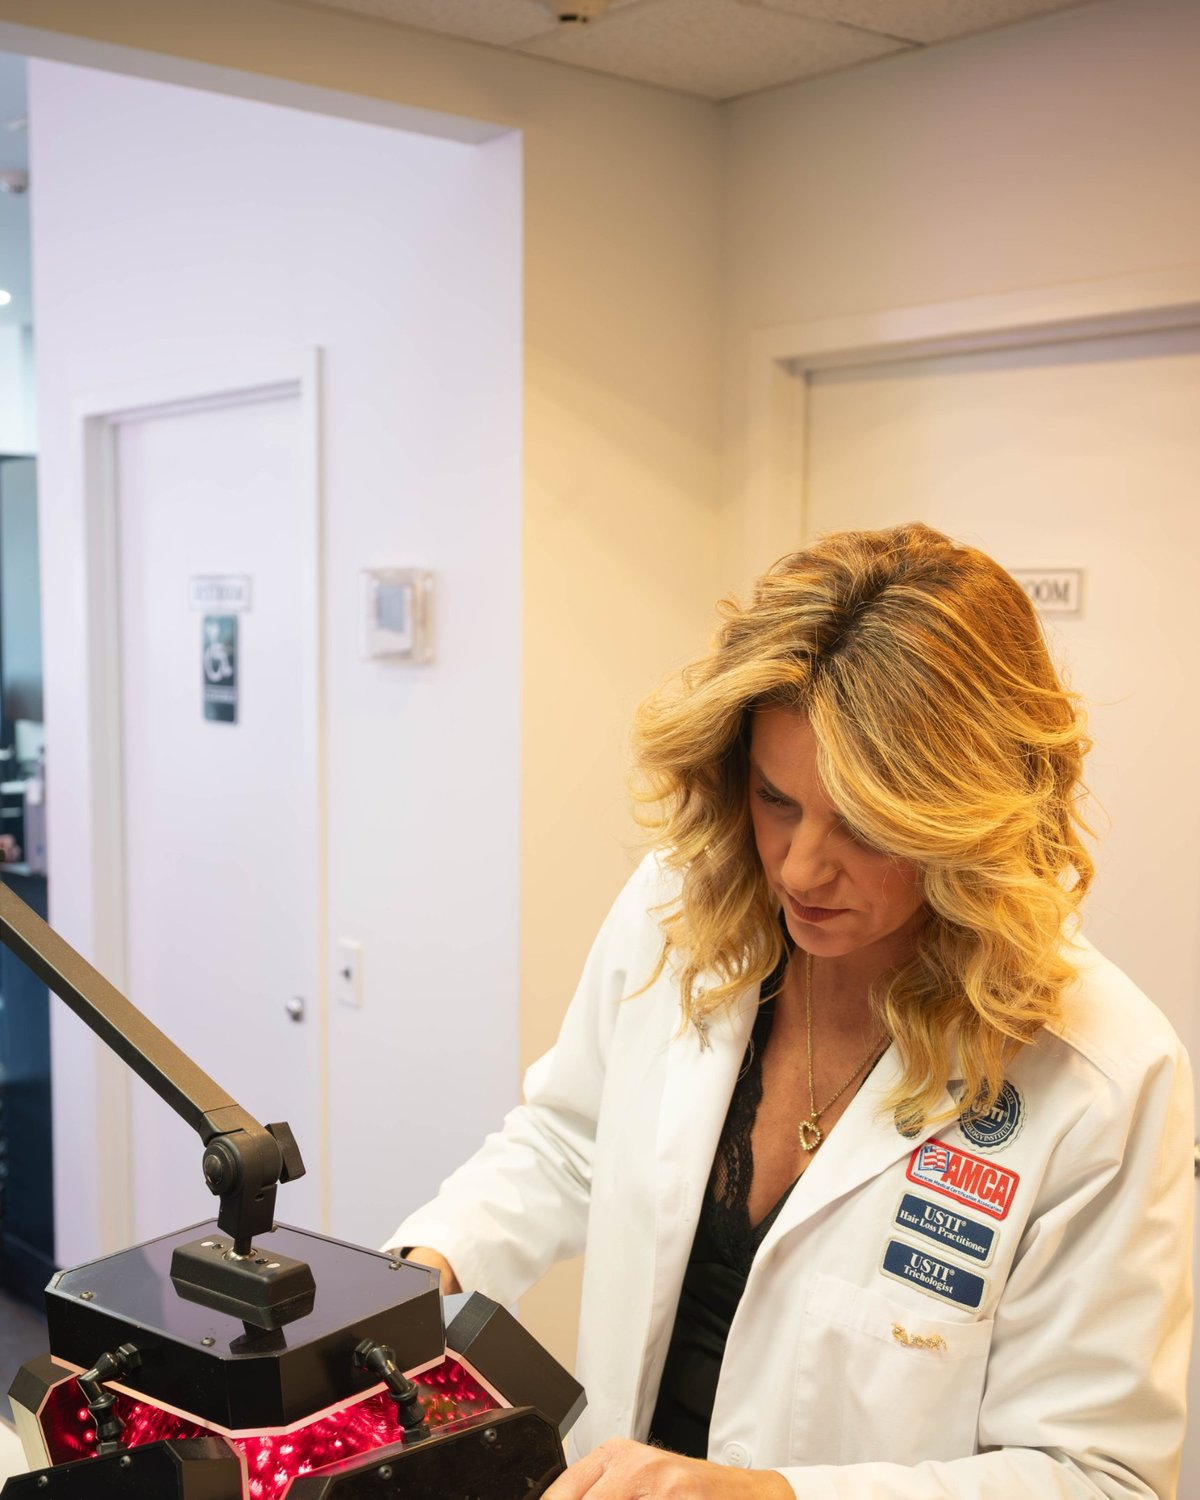
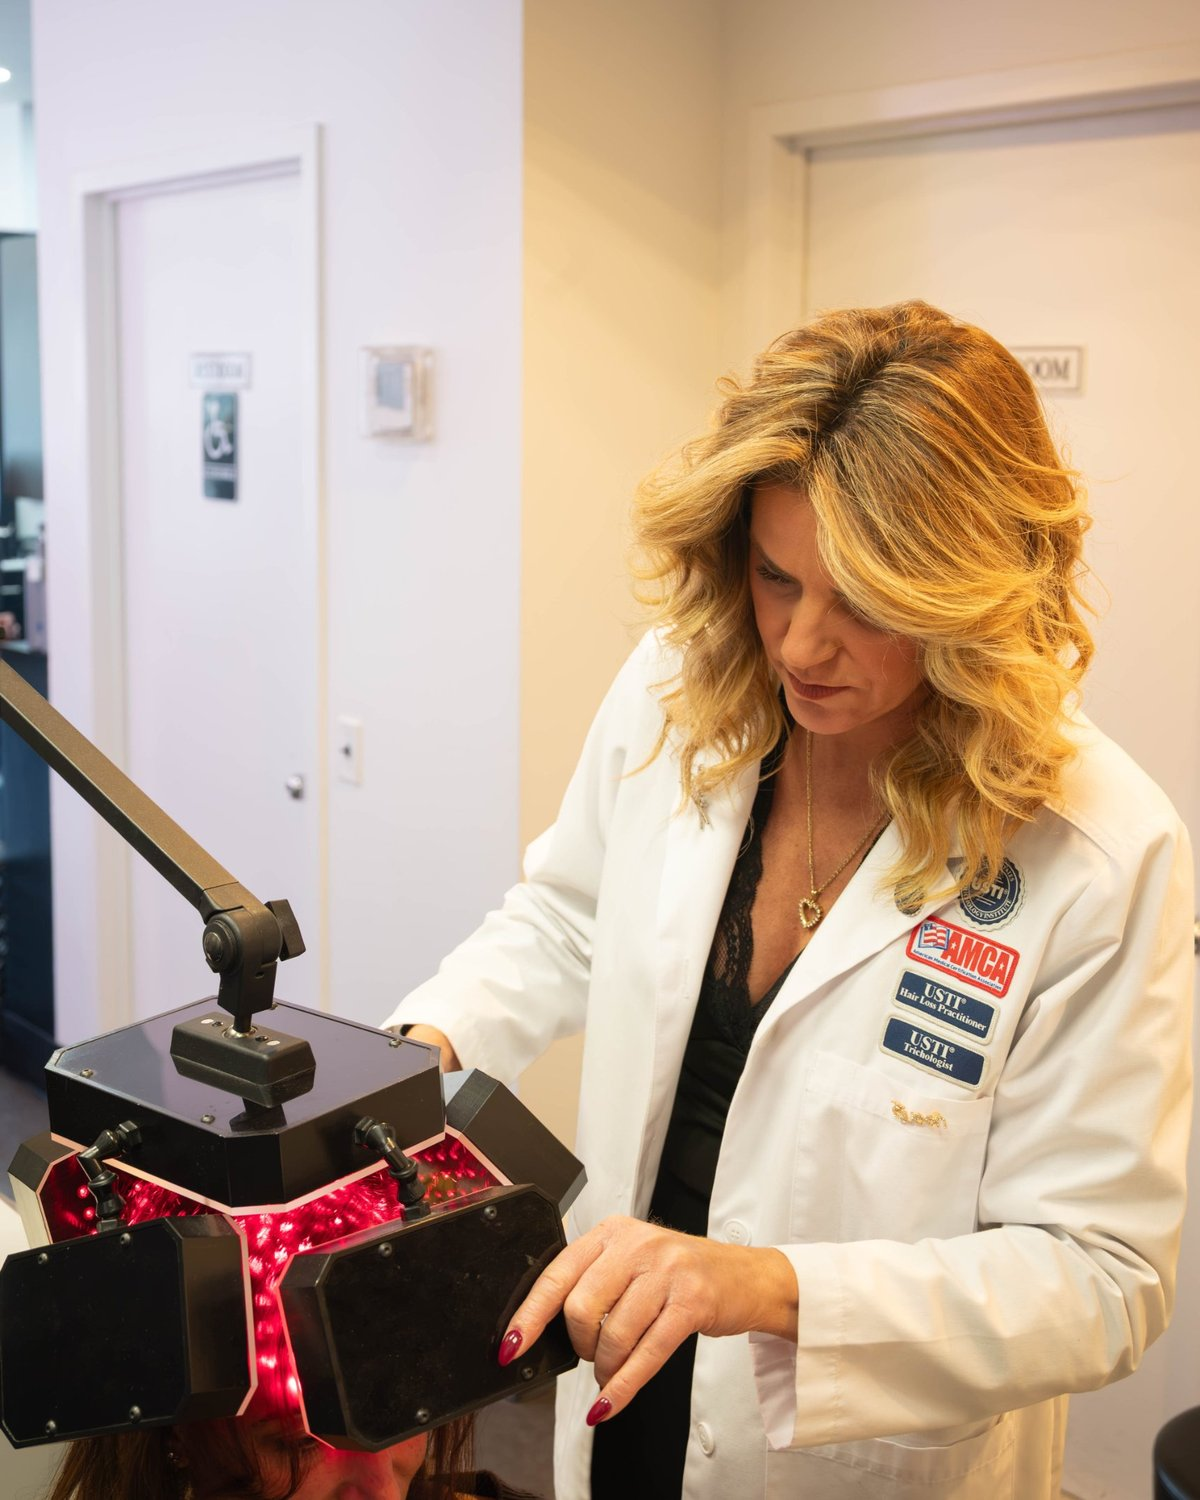
Add USTI and AMCA credentials; reframe laser session photo
Claude-Session: https://claude.ai/code/session_01HH4vdfN4NekQEfnfkDb5ji

diff --git a/index.html b/index.html
@@ -69,6 +69,9 @@
 </div>
 <div style="display: flex; flex-direction: column; border-top: 1px solid #CFD9DF">
 <div style="display: flex; justify-content: space-between; gap: 16px; padding: 16px 0; border-bottom: 1px solid #CFD9DF"><span style="font-family: 'Montserrat', sans-serif; font-size: 13px; font-weight: 600; letter-spacing: 0.1em; color: #4A5A62">CREDENTIAL</span><span style="font-size: 15px; text-align: right">Certified Clinical Trichologist</span></div>
+<div style="display: flex; justify-content: space-between; gap: 16px; padding: 16px 0; border-bottom: 1px solid #CFD9DF"><span style="font-family: 'Montserrat', sans-serif; font-size: 13px; font-weight: 600; letter-spacing: 0.1em; color: #4A5A62">CERTIFIED</span><span style="font-size: 15px; text-align: right">USTI Trichologist</span></div>
+<div style="display: flex; justify-content: space-between; gap: 16px; padding: 16px 0; border-bottom: 1px solid #CFD9DF"><span style="font-family: 'Montserrat', sans-serif; font-size: 13px; font-weight: 600; letter-spacing: 0.1em; color: #4A5A62">CERTIFIED</span><span style="font-size: 15px; text-align: right">USTI Hair Loss Practitioner</span></div>
+<div style="display: flex; justify-content: space-between; gap: 16px; padding: 16px 0; border-bottom: 1px solid #CFD9DF"><span style="font-family: 'Montserrat', sans-serif; font-size: 13px; font-weight: 600; letter-spacing: 0.1em; color: #4A5A62">CERTIFIED</span><span style="font-size: 15px; text-align: right">AMCA (American Medical Certification Association)</span></div>
 <div style="display: flex; justify-content: space-between; gap: 16px; padding: 16px 0; border-bottom: 1px solid #CFD9DF"><span style="font-family: 'Montserrat', sans-serif; font-size: 13px; font-weight: 600; letter-spacing: 0.1em; color: #4A5A62">EXPERIENCE</span><span style="font-size: 15px; text-align: right">Nearly 30 years in cosmetology</span></div>
 <div style="display: flex; justify-content: space-between; gap: 16px; padding: 16px 0; border-bottom: 1px solid #CFD9DF"><span style="font-family: 'Montserrat', sans-serif; font-size: 13px; font-weight: 600; letter-spacing: 0.1em; color: #4A5A62">SALON</span><span style="font-size: 15px; text-align: right">Bella Luna Salon</span></div>
 </div>
@@ -192,7 +195,7 @@
 </figure>
 <figure class="rv stagger-3" style="margin: 0; display: flex; flex-direction: column; gap: 14px">
 <div style="aspect-ratio: 4 / 5; border-radius: 6px; overflow: clip; background: #E6ECEF">
-<img class="rv-zoom" src="assets/laser-session.jpg" alt="Tina adjusting the laser canopy during a client's session" loading="lazy" style="width: 100%; height: 100%; object-fit: cover; display: block">
+<img class="rv-zoom" src="assets/laser-session.jpg" alt="Tina adjusting the full-coverage laser over a seated client during a session" loading="lazy" style="width: 100%; height: 100%; object-fit: cover; display: block">
 </div>
 <figcaption style="font-family: 'Montserrat', sans-serif; font-size: 13px; font-weight: 600; letter-spacing: 0.1em; color: #4A5A62">LASER SESSION</figcaption>
 </figure>
